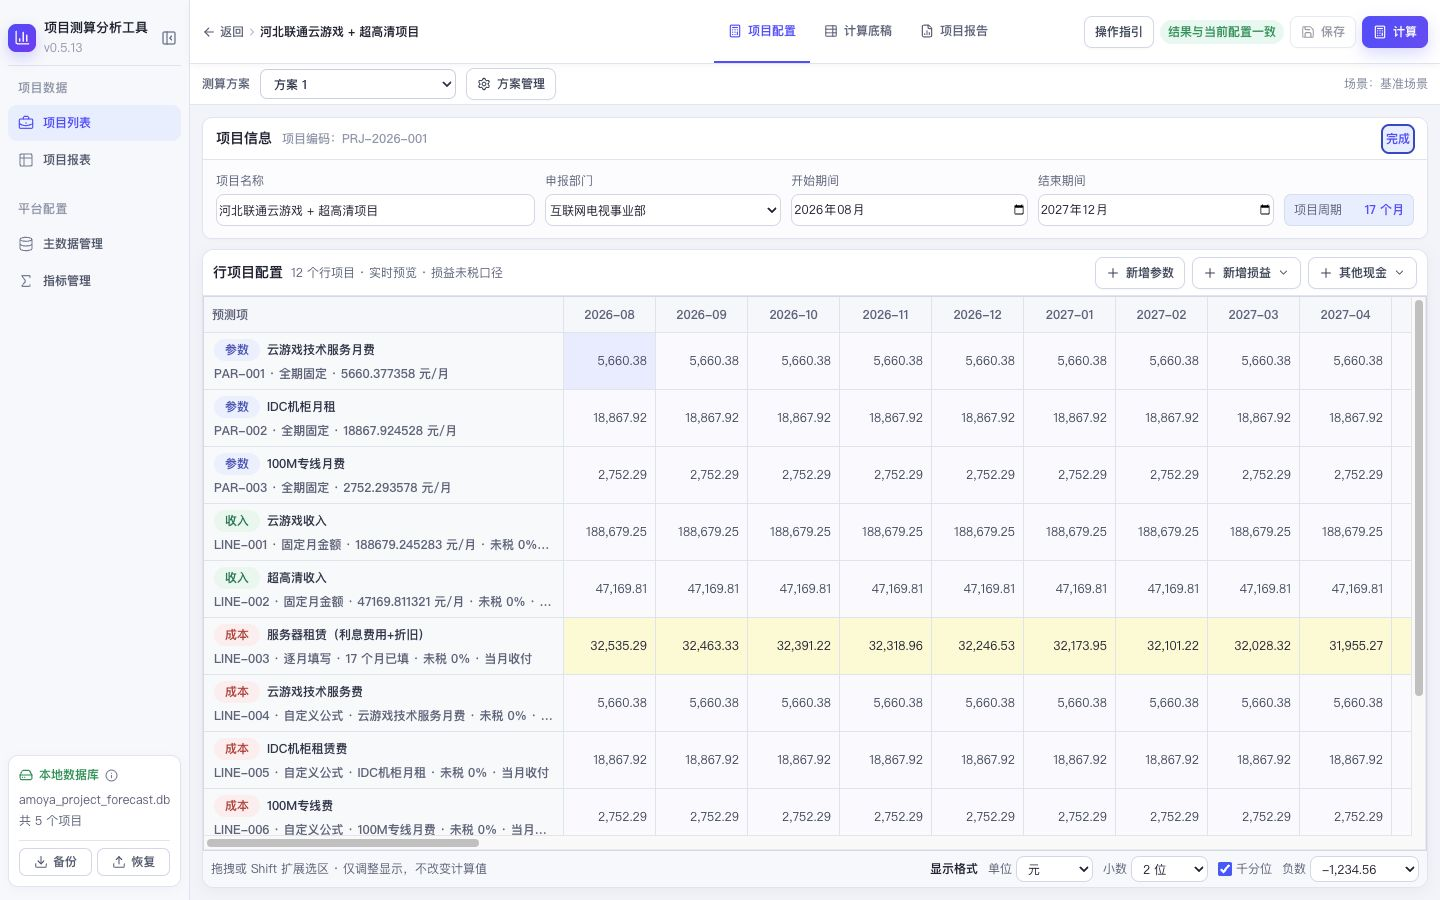
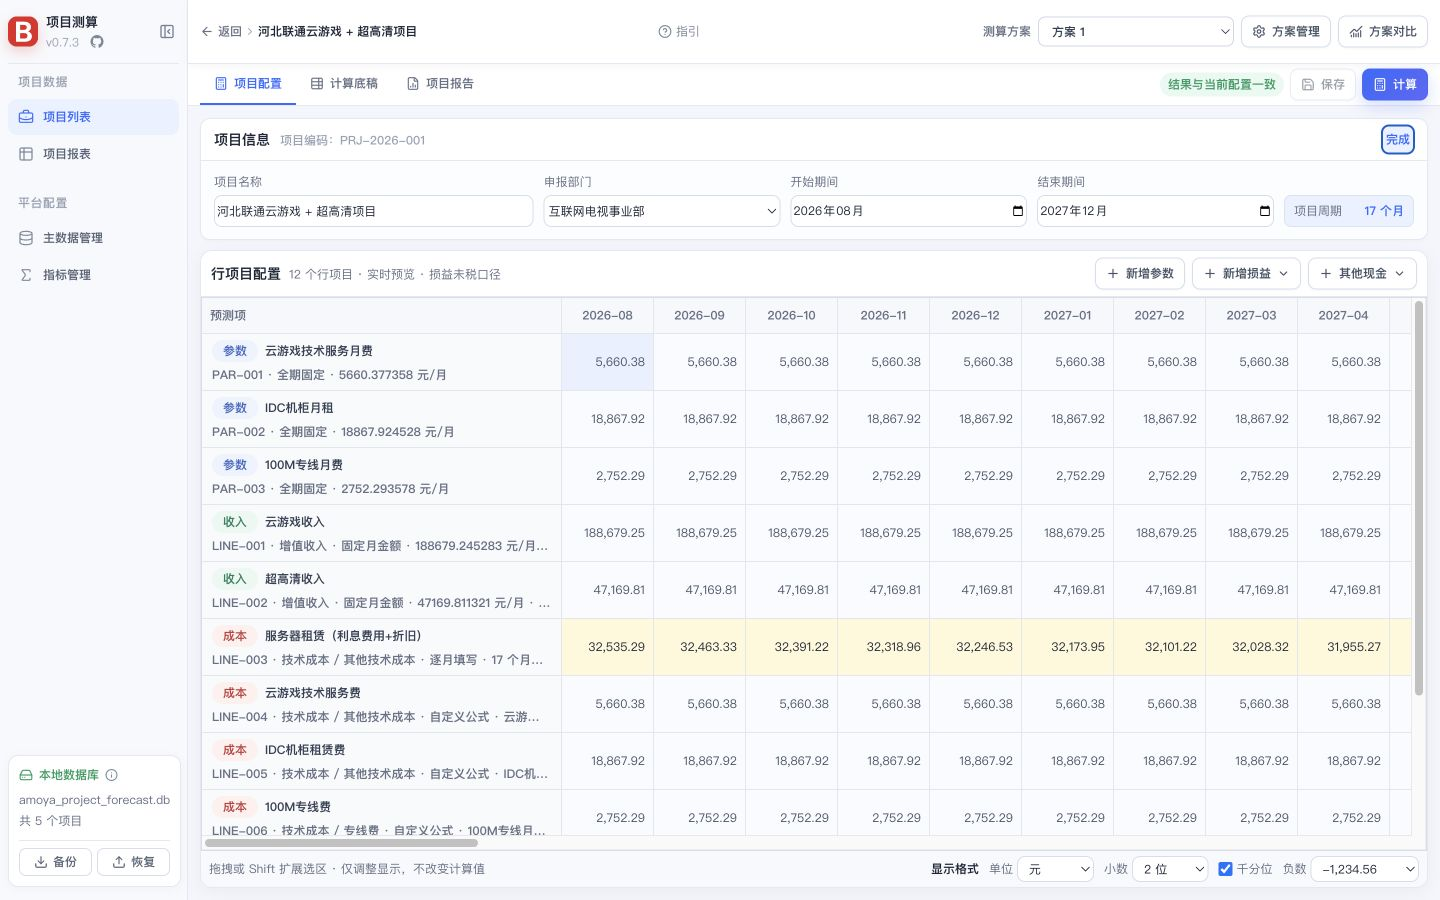
优化项目工作区导航与操作指引

diff --git a/src/app/pages/ProjectWorkspacePage.tsx b/src/app/pages/ProjectWorkspacePage.tsx
@@ -12,6 +12,7 @@ import {
   BadgePercent,
   ChartNoAxesCombined,
   CircleDollarSign,
+  CircleHelp,
   Pencil,
   Plus,
   Printer,
@@ -744,44 +745,31 @@ export function ProjectWorkspacePage({ api, snapshot, projectId, planId, view, o
     <div className="workspace-head unified-workspace-head">
       <div className="workspace-heading project-inline-heading">
         <PageBreadcrumbs back={{ label: '返回', onClick: () => onNavigate('/projects') }} items={[{ label: projectDraft.name }]} />
+        <button className="workspace-guide-link" onClick={() => setGuideOpen(true)}><CircleHelp size={14} />指引</button>
       </div>
-      <div className="workspace-tabs">
-        <button className={view === 'config' ? 'workspace-tab active' : 'workspace-tab'} onClick={() => onNavigate(planPath('config'))}><Calculator size={14} />项目配置</button>
-        <button className={view === 'calculation' ? 'workspace-tab active' : 'workspace-tab'} onClick={() => onNavigate(planPath('calculation'))}><TableProperties size={14} />计算底稿</button>
-        <button className={view === 'report' ? 'workspace-tab active' : 'workspace-tab'} onClick={() => onNavigate(planPath('report'))}><FileChartColumn size={14} />项目报告</button>
-      </div>
-      <div className="workspace-head-actions">
-        <button className="btn" onClick={() => setGuideOpen(true)}>操作指引</button>
-        <span className="workspace-guide-separator" aria-hidden="true" />
-        <span className={`workspace-save-state ${dirty || adjustmentsDirty ? 'dirty' : ''}`}>{view === 'calculation' && adjustmentsDirty ? '调整未保存' : statusText}</span>
-        {view === 'config' && <><button className="btn" disabled={busy || !dirty} onClick={() => void saveFromToolbar()}><Save size={14} />保存</button><button className="btn primary" disabled={busy} onClick={() => void calculate()}><Calculator size={14} />计算</button></>}
-        {view === 'calculation' && <button className="btn primary" disabled={busy || !adjustmentsDirty} onClick={() => void saveAdjustments()}><Save size={14} />保存调整</button>}
-      </div>
-    </div>
-    <div className="project-plan-bar">
-      <span className="project-plan-label">测算方案</span>
-      <div className="project-plan-select-wrap" ref={createPlanMenuRef}>
-        <select aria-label="切换测算方案" value={currentPlanId} onChange={(event) => {
-          const targetPlanId = event.target.value
-          if (targetPlanId === '__create__') {
-            setVersionMemberId(`方案 ${workspace.projectPlans.length + 1}`)
-            setVersionMenuOpen(true)
-            return
-          }
-          if (targetPlanId === currentPlanId) return
-          setVersionMenuOpen(false)
-          onNavigate(planPath(view, targetPlanId))
-        }}>
-          {workspace.projectPlans.filter((item) => item.status === 'active').map((item) => <option key={item.planId} value={item.planId}>{item.name}</option>)}
-          <option value="__create__">＋ 新建方案</option>
-        </select>
-        {versionMenuOpen && <div className="project-plan-popover">
-          <label>方案名称<input autoFocus value={versionMemberId} onChange={(event) => setVersionMemberId(event.target.value)} /></label>
-          <p>选择创建方式</p>
-          <div><button className="btn" onClick={() => setVersionMenuOpen(false)}>取消</button><button className="btn" disabled={busy || !versionMemberId.trim()} onClick={() => void createVersion(false)}>空白方案</button><button className="btn primary" disabled={busy || !versionMemberId.trim()} onClick={() => void createVersion(true)}><Copy size={13} />复制当前</button></div>
-        </div>}
-      </div>
-      <div className="project-plan-create">
+      <div className="workspace-plan-tools">
+        <span className="project-plan-label">测算方案</span>
+        <div className="project-plan-select-wrap" ref={createPlanMenuRef}>
+          <select aria-label="切换测算方案" value={currentPlanId} onChange={(event) => {
+            const targetPlanId = event.target.value
+            if (targetPlanId === '__create__') {
+              setVersionMemberId(`方案 ${workspace.projectPlans.length + 1}`)
+              setVersionMenuOpen(true)
+              return
+            }
+            if (targetPlanId === currentPlanId) return
+            setVersionMenuOpen(false)
+            onNavigate(planPath(view, targetPlanId))
+          }}>
+            {workspace.projectPlans.filter((item) => item.status === 'active').map((item) => <option key={item.planId} value={item.planId}>{item.name}</option>)}
+            <option value="__create__">＋ 新建方案</option>
+          </select>
+          {versionMenuOpen && <div className="project-plan-popover">
+            <label>方案名称<input autoFocus value={versionMemberId} onChange={(event) => setVersionMemberId(event.target.value)} /></label>
+            <p>选择创建方式</p>
+            <div><button className="btn" onClick={() => setVersionMenuOpen(false)}>取消</button><button className="btn" disabled={busy || !versionMemberId.trim()} onClick={() => void createVersion(false)}>空白方案</button><button className="btn primary" disabled={busy || !versionMemberId.trim()} onClick={() => void createVersion(true)}><Copy size={13} />复制当前</button></div>
+          </div>}
+        </div>
         <button className="btn" onClick={() => {
           setVersionMenuOpen(false)
           resetPlanNameDrafts(workspace.projectPlans)
@@ -790,7 +778,18 @@ export function ProjectWorkspacePage({ api, snapshot, projectId, planId, view, o
         }}><Settings size={14} />方案管理</button>
         <button className="btn" onClick={() => onNavigate(`/multidimensional?compareProjectId=${encodeURIComponent(projectId)}`)}><ChartNoAxesCombined size={14} />方案对比</button>
       </div>
-      <span className="project-plan-context">场景：基准场景</span>
+    </div>
+    <div className="project-plan-bar project-workspace-nav">
+      <div className="workspace-tabs">
+        <button className={view === 'config' ? 'workspace-tab active' : 'workspace-tab'} onClick={() => onNavigate(planPath('config'))}><Calculator size={14} />项目配置</button>
+        <button className={view === 'calculation' ? 'workspace-tab active' : 'workspace-tab'} onClick={() => onNavigate(planPath('calculation'))}><TableProperties size={14} />计算底稿</button>
+        <button className={view === 'report' ? 'workspace-tab active' : 'workspace-tab'} onClick={() => onNavigate(planPath('report'))}><FileChartColumn size={14} />项目报告</button>
+      </div>
+      <div className="workspace-head-actions">
+        <span className={`workspace-save-state ${dirty || adjustmentsDirty ? 'dirty' : ''}`}>{view === 'calculation' && adjustmentsDirty ? '调整未保存' : statusText}</span>
+        {view === 'config' && <><button className="btn" disabled={busy || !dirty} onClick={() => void saveFromToolbar()}><Save size={14} />保存</button><button className="btn primary" disabled={busy} onClick={() => void calculate()}><Calculator size={14} />计算</button></>}
+        {view === 'calculation' && <button className="btn primary" disabled={busy || !adjustmentsDirty} onClick={() => void saveAdjustments()}><Save size={14} />保存调整</button>}
+      </div>
     </div>
     {planManageOpen && <div className="modal-backdrop plan-management-backdrop" role="presentation" onMouseDown={(event) => { if (event.target === event.currentTarget) setPlanManageOpen(false) }}>
       <section className="modal-card plan-management-modal" role="dialog" aria-modal="true" aria-labelledby="plan-management-title" onMouseDown={(event) => event.stopPropagation()}>
@@ -1123,13 +1122,13 @@ function ProjectReportView({ report, onExport, onOpenAi }: { report?: ProjectRep
 function ProjectGuideModal({ onClose }: { onClose: () => void }) {
   const [step, setStep] = useState(0)
   const steps = [
-    { title: '选择测算方案', copy: '先选择要维护的测算方案。每个方案拥有独立的期间、参数、预测项和结果；也可以在方案管理中新增、复制、重命名或归档方案。', image: guideProjectConfig, focus: { left: 13.2, top: 6.2, width: 26, height: 5.8 } },
-    { title: '维护项目信息', copy: '点击编辑，维护项目名称、申报部门以及当前方案的开始和结束期间。项目编码由系统生成，不需要手工填写。', image: guideProjectInfo, focus: { left: 13.7, top: 12.5, width: 85.8, height: 14.5 } },
-    { title: '设置参数与测算规则', copy: '在行项目表中新增参数、收入、成本或其他现金事项。选中预测项后，在右侧配置测算方式、税口径和收付款规则，左侧分月表会实时预览。', image: guideForecastRule, focus: { left: 70.4, top: 11.2, width: 29, height: 87.8 } },
-    { title: '保存并计算', copy: '“保存”只保存项目和预测配置；“计算”会在需要时先保存，再生成当前方案最新的计算底稿和报告结果。', image: guideSaveCalculate, focus: { left: 74.9, top: 1.1, width: 24.3, height: 5.2 } },
-    { title: '复核并调整底稿', copy: '计算底稿展示最终采用的分月基础数据。黄色叶子单元格可直接修改或从 Excel 粘贴；保存调整后，项目报告和跨项目报表立即更新，不需要再次计算。', image: guideAdjustmentReport, focus: { left: 35.3, top: 28.3, width: 58.2, height: 6.2 } },
-    { title: '查看与下载报告', copy: '进入“项目报告”查看核心指标、结构和年度趋势。报告可切换含税或不含税、元或万元，并按当前视图导出 Excel 或打印为 PDF。', image: guideReportExport, focus: { left: 46.9, top: 13.2, width: 23.2, height: 4.8 } },
-    { title: '准备 AI 分析素材', copy: '点击“AI 分析素材”查看并复制固定提示词，下载仅隐藏身份信息的脱敏 Excel，再交给可信的 AI 服务分析。财务金额仍为真实数据，请注意发送范围。', image: guideAiAnalysisMaterial, focus: { left: 16.4, top: 26.9, width: 67.2, height: 55.2 } },
+    { title: '选择测算方案', copy: '先选择要维护的测算方案。每个方案拥有独立的期间、参数、预测项和结果；也可以在方案管理中新增、复制、重命名或归档方案。', image: guideProjectConfig, focus: { left: 67.7, top: 1, width: 31.9, height: 5 } },
+    { title: '维护项目信息', copy: '点击编辑，维护项目名称、申报部门以及当前方案的开始和结束期间。项目编码由系统生成，不需要手工填写。', image: guideProjectInfo, focus: { left: 13.5, top: 12.4, width: 86, height: 15 } },
+    { title: '设置参数与测算规则', copy: '在行项目表中新增参数、收入、成本或其他现金事项。选中预测项后，在右侧配置测算方式、税口径和收付款规则，左侧分月表会实时预览。', image: guideForecastRule, focus: { left: 70.4, top: 11.2, width: 29.2, height: 88.2 } },
+    { title: '保存并计算', copy: '“保存”只保存项目和预测配置；“计算”会在需要时先保存，再生成当前方案最新的计算底稿和报告结果。', image: guideSaveCalculate, focus: { left: 79.3, top: 6.9, width: 20.3, height: 5 } },
+    { title: '复核并调整底稿', copy: '计算底稿展示最终采用的分月基础数据。黄色叶子单元格可直接修改或从 Excel 粘贴；保存调整后，项目报告和跨项目报表立即更新，不需要再次计算。', image: guideAdjustmentReport, focus: { left: 35.3, top: 32.6, width: 58.3, height: 5.2 } },
+    { title: '查看与下载报告', copy: '进入“项目报告”查看核心指标、结构和年度趋势。报告可切换含税或不含税、元或万元，并按当前视图导出 Excel 或打印为 PDF。', image: guideReportExport, focus: { left: 73.3, top: 13.2, width: 23.3, height: 4.9 } },
+    { title: '准备 AI 分析素材', copy: '点击“AI 分析素材”查看并复制固定提示词，下载仅隐藏身份信息的脱敏 Excel，再交给可信的 AI 服务分析。财务金额仍为真实数据，请注意发送范围。', image: guideAiAnalysisMaterial, focus: { left: 15.6, top: 17.1, width: 68.9, height: 65.7 } },
   ]
   const current = steps[step]
   return <div className="modal-backdrop guide-backdrop" onMouseDown={(event) => { if (event.target === event.currentTarget) onClose() }}>

diff --git a/src/app/styles.css b/src/app/styles.css
@@ -596,7 +596,8 @@ code { color: #3e5aa1; font-family: ui-monospace, SFMono-Regular, Menlo, monospa
 .workspace-tab.disabled { color: #a5adba; }
 .workspace-tab small { margin-left: 4px; color: #9ba4b3; font-size: 12px; }
 .workspace-head-actions { margin-left: auto; display: flex; gap: 7px; }
-.workspace-guide-separator { width: 1px; height: 20px; margin: 0 2px; flex: 0 0 1px; background: #dce2ec; }
+.workspace-guide-link { flex: 0 0 auto; height: 28px; display: inline-flex; align-items: center; gap: 4px; padding: 0; border: 0; color: #7b8799; background: transparent; font-size: 12px; white-space: nowrap; }
+.workspace-guide-link:hover { color: var(--brand); text-decoration: underline; text-underline-offset: 3px; }
 .workspace-view { flex: 1; min-height: 0; display: flex; flex-direction: column; }
 .report-toolbar {
   height: 48px;
@@ -3196,6 +3197,12 @@ textarea:focus {
 .calculation-note.stale-note { border-color: #f1d59f; color: #a36a08; background: #fff8e8; }
 .workspace-message { color: #315bc5; background: #f3f7ff; border-bottom-color: #dce5ff; }
 .project-plan-bar { position: relative; display: flex; min-height: 38px; align-items: center; gap: 10px; padding: 4px 12px; border-bottom: 1px solid var(--line); background: #fff; white-space: nowrap; }
+.workspace-plan-tools { min-width: 0; margin-left: auto; display: flex; align-items: center; justify-content: flex-end; gap: 7px; white-space: nowrap; }
+.workspace-plan-tools > .btn { height: 30px; }
+.project-inline-heading .page-breadcrumbs { flex: 1; min-width: 0; width: auto; }
+.project-workspace-nav { min-height: 42px; height: 42px; padding-top: 0; padding-bottom: 0; display: flex; gap: 0; }
+.project-workspace-nav .workspace-tabs { height: 100%; margin-left: 0; }
+.project-workspace-nav .workspace-head-actions { margin-left: auto; padding-left: 12px; align-self: center; }
 .project-plan-label { flex: 0 0 auto; color: #667085; font-weight: 700; }
 .project-plan-select-wrap { position: relative; flex: 0 0 auto; }
 .project-plan-select-wrap > select { width: 196px; height: 30px; padding: 0 30px 0 9px; border: 1px solid #cfd7e6; border-radius: 7px; color: #344054; background: #fff; font-weight: 650; }
@@ -3302,6 +3309,7 @@ textarea:focus {
   body { color: #111; background: #fff; }
   .semantic-app .global-nav,
   .unified-workspace-head,
+  .project-workspace-nav,
   .workspace-message,
   .no-print { display: none !important; }
   .semantic-app,

diff --git a/AGENTS.md b/AGENTS.md
@@ -18,7 +18,7 @@ React 页面
   → SQLite 文件 data/amoya_project_forecast.db
 ```
 
-- 当前软件版本：`v0.7.2`，唯一版本源是 `src/package.json`。
+- 当前软件版本：`v0.7.3`，唯一版本源是 `src/package.json`。
 - 当前数据结构：Schema v15。
 - 正式地址：`http://127.0.0.1:4173/projects`。
 - 已删除旧单 HTML、PWA/OPFS 运行入口和浏览器数据库持久化；不要恢复。
@@ -138,6 +138,7 @@ src/app/mocks/                   五个参考项目配置
 
 - 面向财务人员，默认 12–16px，紧凑、清晰、少层级，避免 IT 管理后台术语。
 - 项目工作区固定为“项目配置—计算底稿—项目报告”。
+- 项目工作区第一行在项目名称后提供无边框“指引”链接，测算方案及方案操作固定右对齐；不常显无交互的场景文案。第二行左对齐切换三个页面，保存状态与当前页面操作固定右对齐。
 - 项目配置使用一张统一行项目表，选中行后右侧挤压抽屉编辑。
 - 逐月填写直接在主表黄色单元格中完成，支持 Excel 区域粘贴。
 - 计算底稿允许调整基础叶子值；汇总、规则现金和派生指标只读。

diff --git a/docs/03_项目交接与使用.md b/docs/03_项目交接与使用.md
@@ -104,6 +104,7 @@ amoya-project_forecast/
 
 - 左上角显示当前软件版本；确认对方是否已更新时，优先核对这里。
 - 点击左上角红色 B 标识可以收起或展开侧栏。
+- 进入项目后，项目名称右侧的“指引”可打开七步操作说明；测算方案在第一行右侧切换，项目配置、计算底稿和项目报告在第二行左侧切换。
 - 主数据和指标管理的表头分隔线可以左右拖动，调整后的列宽只保存在当前浏览器，不影响数据库。
 - 项目内点击“方案对比”会进入项目报表，默认在行轴展示完整指标树，列轴按“年度 → 方案”展示当前项目全部有效方案；方案名称可切换为“项目（方案）”或“仅方案”，右侧仍可改成月度、季度或其他行列结构。
 - 项目报表的“下载”导出当前可见表样，包含多层中文表头和原始数值；页面上的万元、小数位等仅影响屏幕显示。

diff --git a/docs/02_开发状态与验收.md b/docs/02_开发状态与验收.md
@@ -1,7 +1,7 @@
 # 开发状态与验收
 
 更新时间：2026-08-05
-当前版本：v0.7.2
+当前版本：v0.7.3
 当前 Schema：v15
 
 ## 1. 已完成
@@ -53,6 +53,7 @@
 - 备份下载与恢复入口统一校验 `amoya_project_forecast.db`，恢复前提供文件预览和替换提醒。
 - 主数据和指标管理全部表格已支持受限列宽拖动；设置只影响当前浏览器显示，不改变业务数据。
 - v0.7.2 针对性验证包含：年度→方案两层列头、不同期间独立合并、完整指标树方案对比、方案名称显示切换、同口径 Excel 生成及固定侧栏宽度。
+- v0.7.3 调整项目工作区标题层级：“指引”紧跟项目名称，方案操作位于首行右侧；页面切换位于第二行左侧，保存状态与操作在第二行右侧。七步操作指引已按新界面重新截图并校准红框。
 
 ## 5. 后续修改要求
 

diff --git a/README.md b/README.md
@@ -2,7 +2,7 @@
 
 面向财务人员的本地项目测算、计算底稿和报告工具。
 
-当前版本：`v0.7.2`
+当前版本：`v0.7.3`
 
 当前数据结构：Schema v15
 

diff --git a/docs/01_产品与数据设计.md b/docs/01_产品与数据设计.md
@@ -1,7 +1,7 @@
 # 产品与数据设计
 
 更新时间：2026-08-05
-当前版本：v0.7.2
+当前版本：v0.7.3
 数据结构：Schema v15
 
 ## 1. 产品目标
